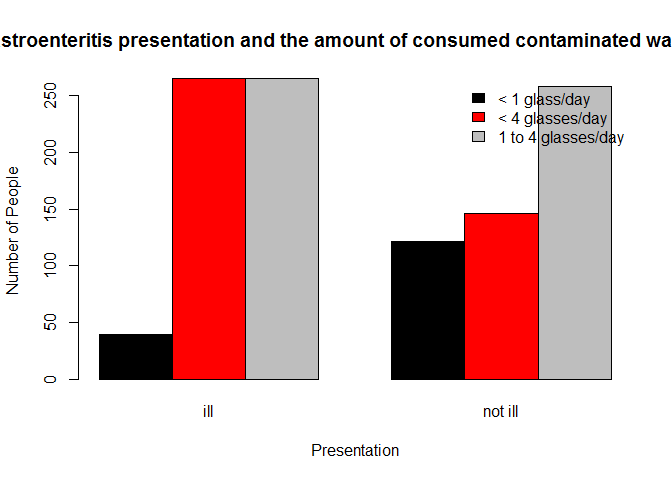
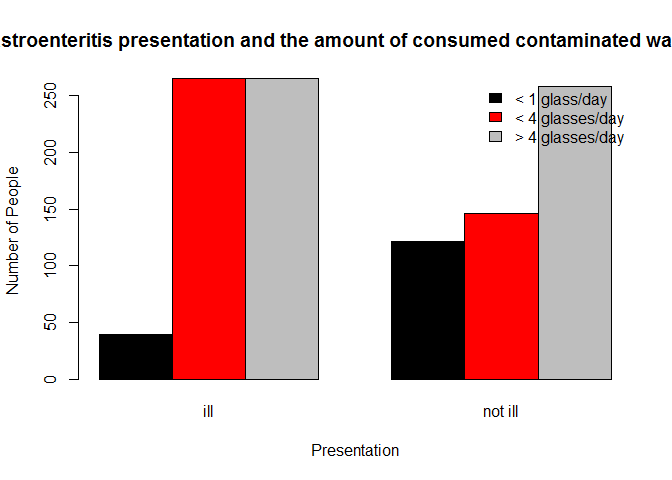
hotzone legend

Changed region(s): [[0.6875, 0.1875, 0.9375, 0.3125]]

diff --git a/Course-mark Assignment 5/README.md b/Course-mark Assignment 5/README.md
@@ -397,7 +397,7 @@ barplot(gastroX, beside = TRUE,
         col = c("black", "red", "grey"))
 
 par(xpd = TRUE)
-legend("topright", c("< 1 glass/day", "< 4 glasses/day", "1 to 4 glasses/day"), bty = "n", fill = c("black", "red", "grey"))
+legend("topright", c("< 1 glass/day", "< 4 glasses/day", "> 4 glasses/day"), bty = "n", fill = c("black", "red", "grey"))
 ```
 
 ![](README_files/figure-markdown_github/the_hot_zone-1.png)
